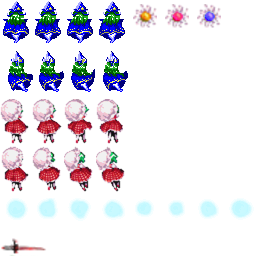
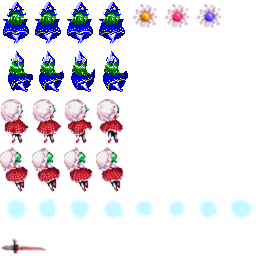
Sprite Change

Changed region(s): [[0.0, 0.5625, 0.5, 0.75]]

diff --git a/mima/files.js b/mima/files.js
@@ -51,7 +51,7 @@
 	"th08/data/front/ename.png": 4059987754,
 	"th08/data/front/front.png": 4235959138,
 	"th08/data/player00/player01.png": 2283120535,
-	"th08/data/player00/player03.png": 634237376,
+	"th08/data/player00/player03.png": 3986238006,
 	"th08/data/stgenm/stg4benm.png": 3496821779,
 	"th08/data/stgenm/stg9enm_yy.png": null,
 	"th08/data/text/stg4btxt.png": 542251230,
